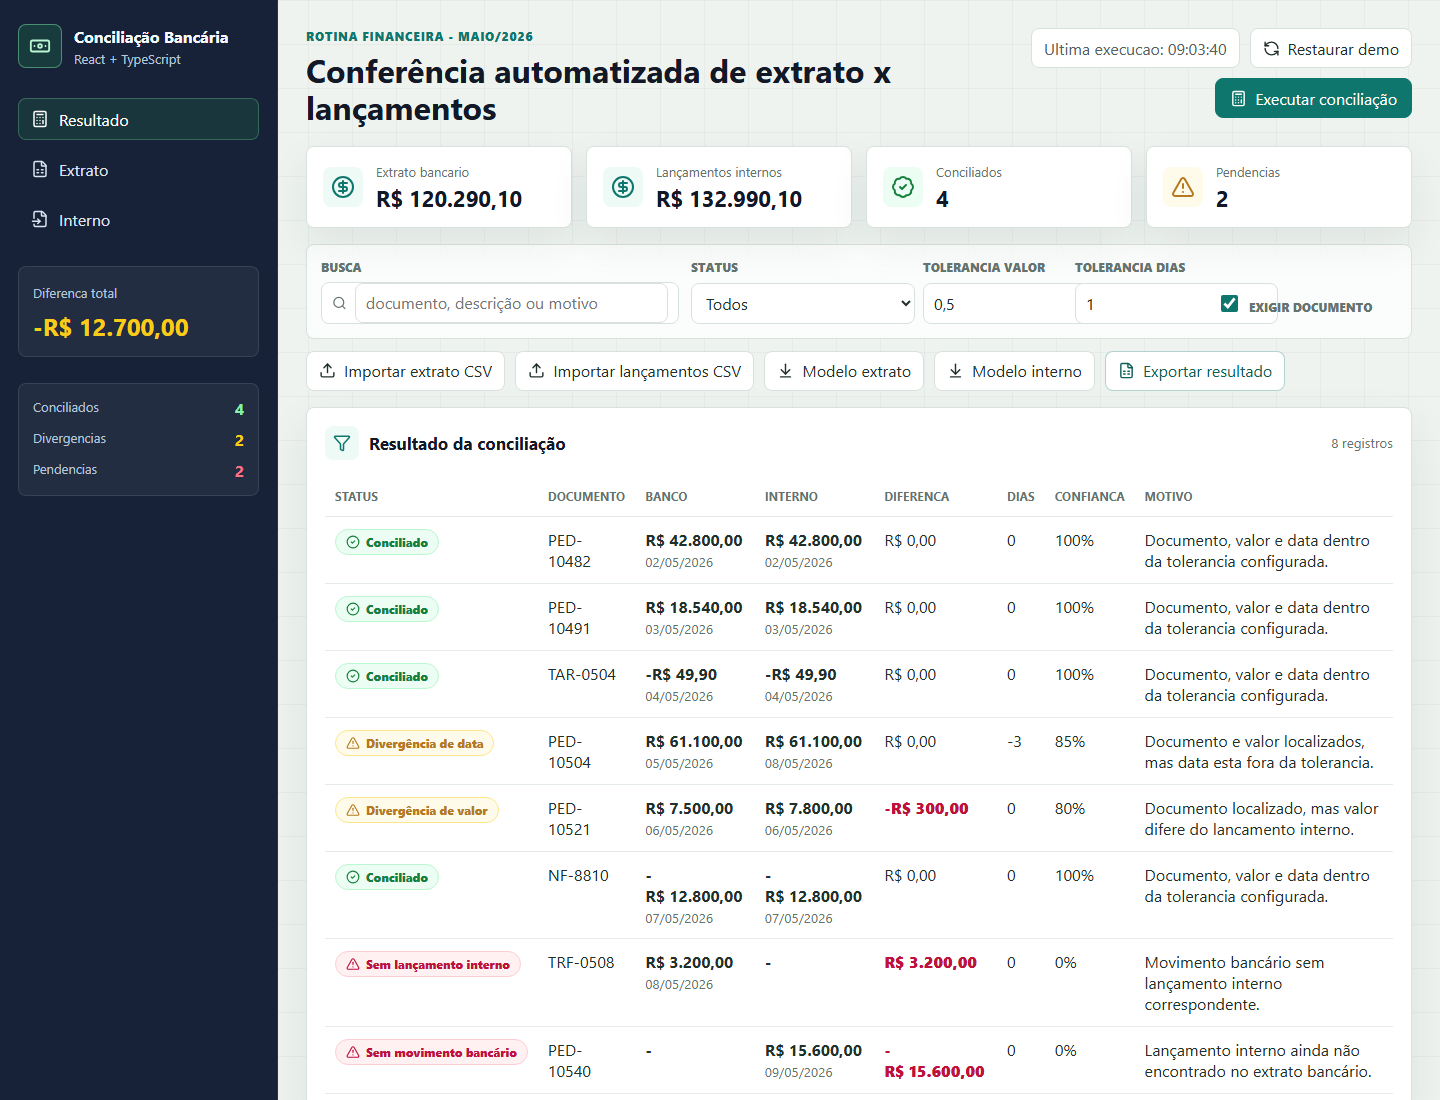
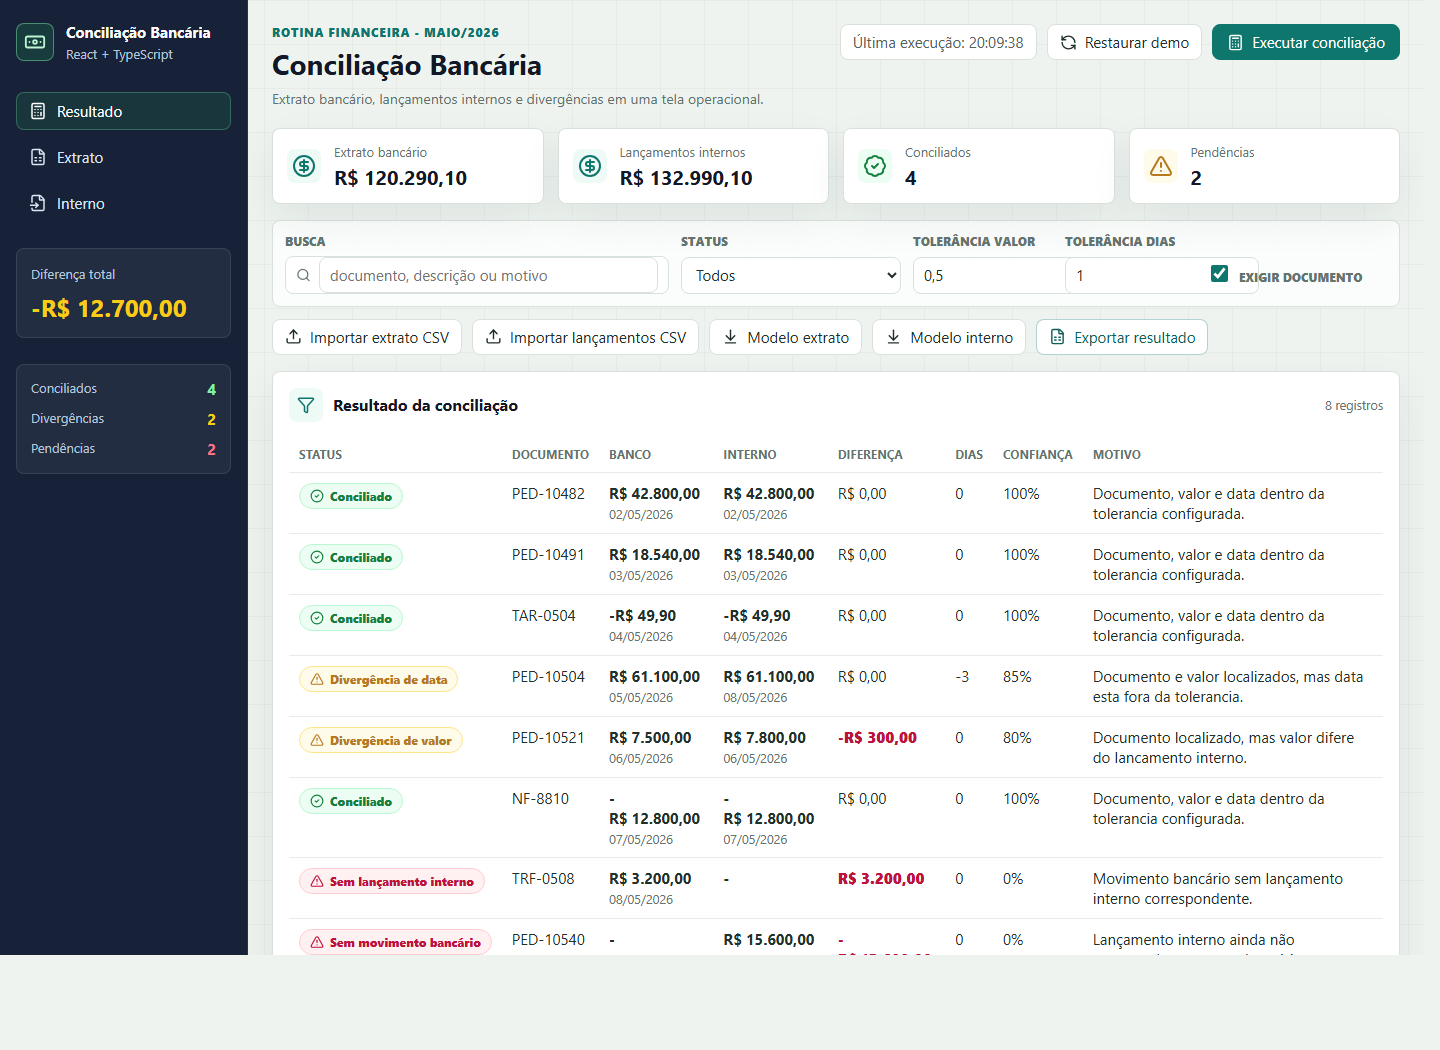
Polish reconciliation demo branding

diff --git a/src/App.css b/src/App.css
@@ -23,13 +23,15 @@
 
 .brand-mark {
   display: grid;
-  width: 38px;
-  height: 38px;
+  width: 36px;
+  height: 36px;
   place-items: center;
-  border: 1px solid rgba(134, 239, 172, 0.46);
-  border-radius: 8px;
-  background: rgba(34, 197, 94, 0.16);
-  color: #bbf7d0;
+  border: 1px solid rgba(72, 166, 255, 0.55);
+  border-radius: 0;
+  background: linear-gradient(135deg, #070a0f, #0c1b2b);
+  color: #7cc5ff;
+  font-size: 14px;
+  font-weight: 800;
 }
 
 .brand strong,
@@ -40,7 +42,7 @@
 .brand small {
   margin-top: 3px;
   color: #b8c5d8;
-  font-size: 13px;
+  font-size: 12px;
 }
 
 .nav-list {
@@ -80,13 +82,13 @@
 .side-metric span,
 .side-line span {
   color: #b8c5d8;
-  font-size: 13px;
+  font-size: 12px;
 }
 
 .side-metric strong {
   display: block;
   margin-top: 8px;
-  font-size: 24px;
+  font-size: 22px;
 }
 
 .side-metric .ok,
@@ -140,7 +142,7 @@
   max-width: 620px;
   margin: 0;
   color: #121826;
-  font-size: 28px;
+  font-size: 25px;
   line-height: 1.15;
 }
 
@@ -148,7 +150,7 @@
   max-width: 680px;
   margin: 8px 0 0;
   color: #65736f;
-  font-size: 14px;
+  font-size: 13px;
   line-height: 1.55;
 }
 
@@ -245,13 +247,13 @@ button {
 .metric-card p {
   margin: 0 0 5px;
   color: #65736f;
-  font-size: 13px;
+  font-size: 12px;
 }
 
 .metric-card strong {
   display: block;
   color: #121826;
-  font-size: 20px;
+  font-size: 18px;
   line-height: 1.2;
 }
 
@@ -267,7 +269,7 @@ button {
 
 .control-strip {
   display: grid;
-  grid-template-columns: minmax(260px, 1fr) 220px 140px 130px 180px;
+  grid-template-columns: minmax(240px, 1fr) minmax(170px, 0.72fr) 120px 112px minmax(142px, max-content);
   gap: 12px;
   margin-bottom: 12px;
   border: 1px solid #d8e1dc;
@@ -320,9 +322,13 @@ select {
 
 .switch-control {
   display: flex;
-  align-items: end;
+  align-items: center;
   gap: 8px;
-  padding-bottom: 9px;
+  align-self: end;
+  min-height: 36px;
+  min-width: 0;
+  padding-bottom: 0;
+  white-space: nowrap;
 }
 
 .switch-control input {
@@ -375,7 +381,7 @@ select {
 .panel-header h2 {
   margin: 0;
   color: #121826;
-  font-size: 16px;
+  font-size: 15px;
 }
 
 .panel-header small {
@@ -394,7 +400,7 @@ table {
 
 th {
   color: #65736f;
-  font-size: 12px;
+  font-size: 11px;
   text-align: left;
   text-transform: uppercase;
 }
@@ -433,7 +439,7 @@ tbody tr:hover {
   border-radius: 999px;
   background: #f8fafc;
   padding: 0 10px;
-  font-size: 12px;
+  font-size: 11px;
   font-weight: 800;
   white-space: nowrap;
 }
@@ -529,7 +535,7 @@ tbody tr:hover {
   }
 
   .topbar h1 {
-    font-size: 23px;
+    font-size: 21px;
   }
 
   .topbar-actions {

diff --git a/src/App.tsx b/src/App.tsx
@@ -111,12 +111,14 @@ function App() {
     <main className="app-shell">
       <aside className="sidebar" aria-label="Resumo da rotina">
         <div className="brand">
-          <span className="brand-mark">
-            <Banknote size={22} />
-          </span>
+          <span className="brand-mark">GB</span>
           <div>
             <strong>Conciliação Bancária</strong>
-            <small>React + TypeScript</small>
+            <small>
+              React + TypeScript
+              <br />
+              George Barreto
+            </small>
           </div>
         </div>
 

diff --git a/src/index.css b/src/index.css
@@ -1,7 +1,7 @@
 :root {
   color-scheme: light;
   font-family: "Segoe UI", Inter, Arial, sans-serif;
-  font-size: 15px;
+  font-size: 14px;
   color: #22302c;
   background:
     linear-gradient(rgba(23, 33, 31, 0.035) 1px, transparent 1px),